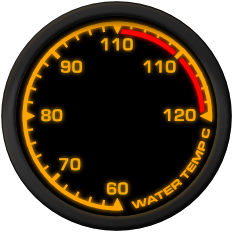
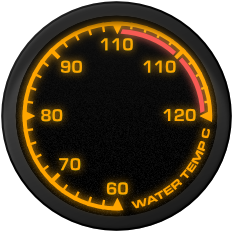
Reduce shadow samples and update face image
Decreased the shadow effect samples from 17 to 9 in AgeSolo.qml for improved performance. Updated the DarkWaterTempFace.png image.

diff --git a/AgeSolo.qml b/AgeSolo.qml
@@ -538,7 +538,7 @@ Item {
             horizontalOffset: parent.calculateShadowOffset().x
             verticalOffset: parent.calculateShadowOffset().y
             radius: 8.0
-            samples: 17
+            samples: 9
             color: "#80000000"
         }
     }